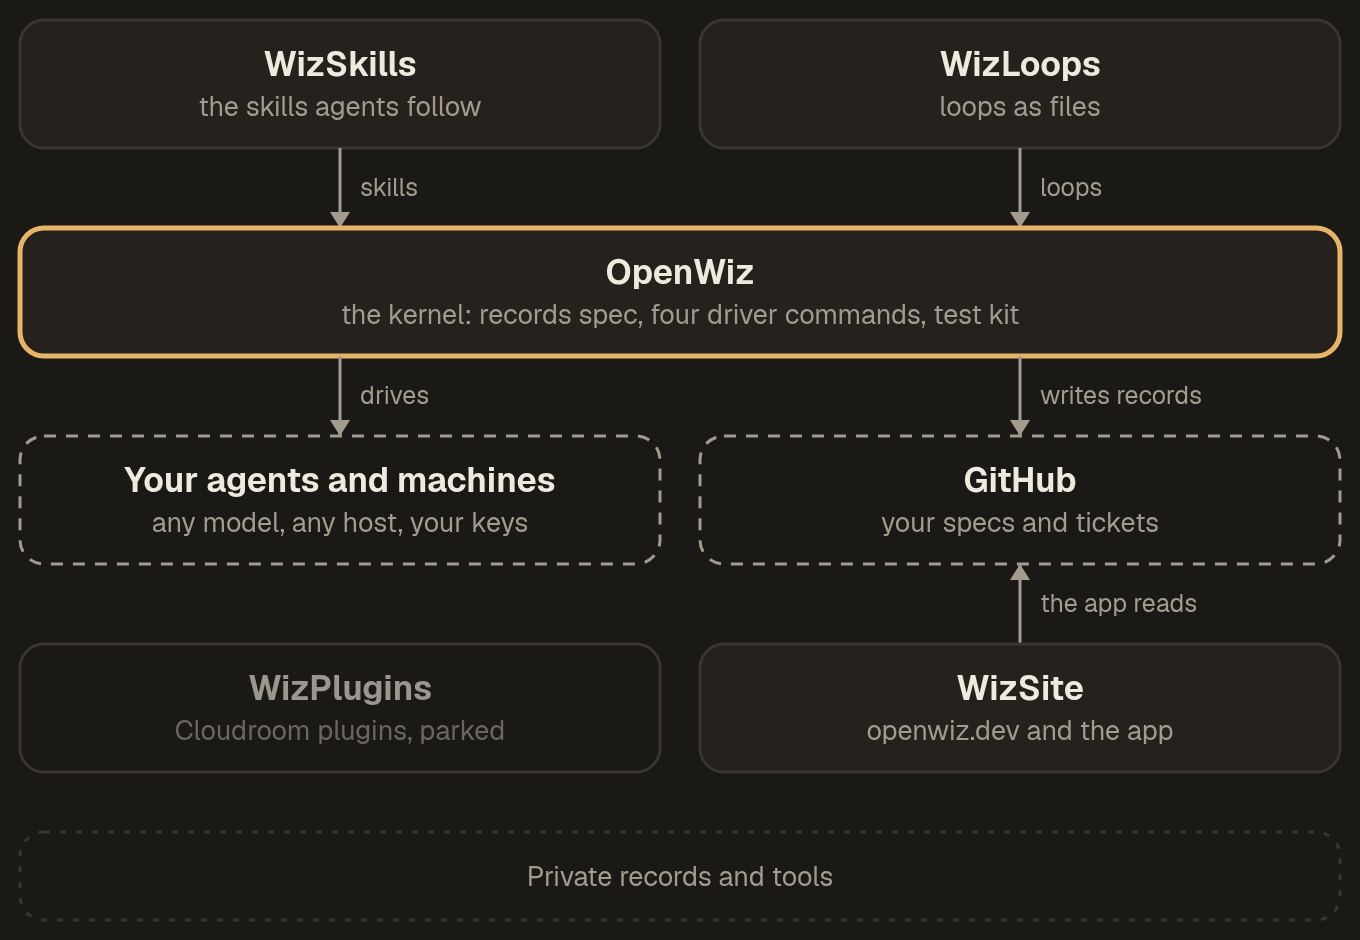
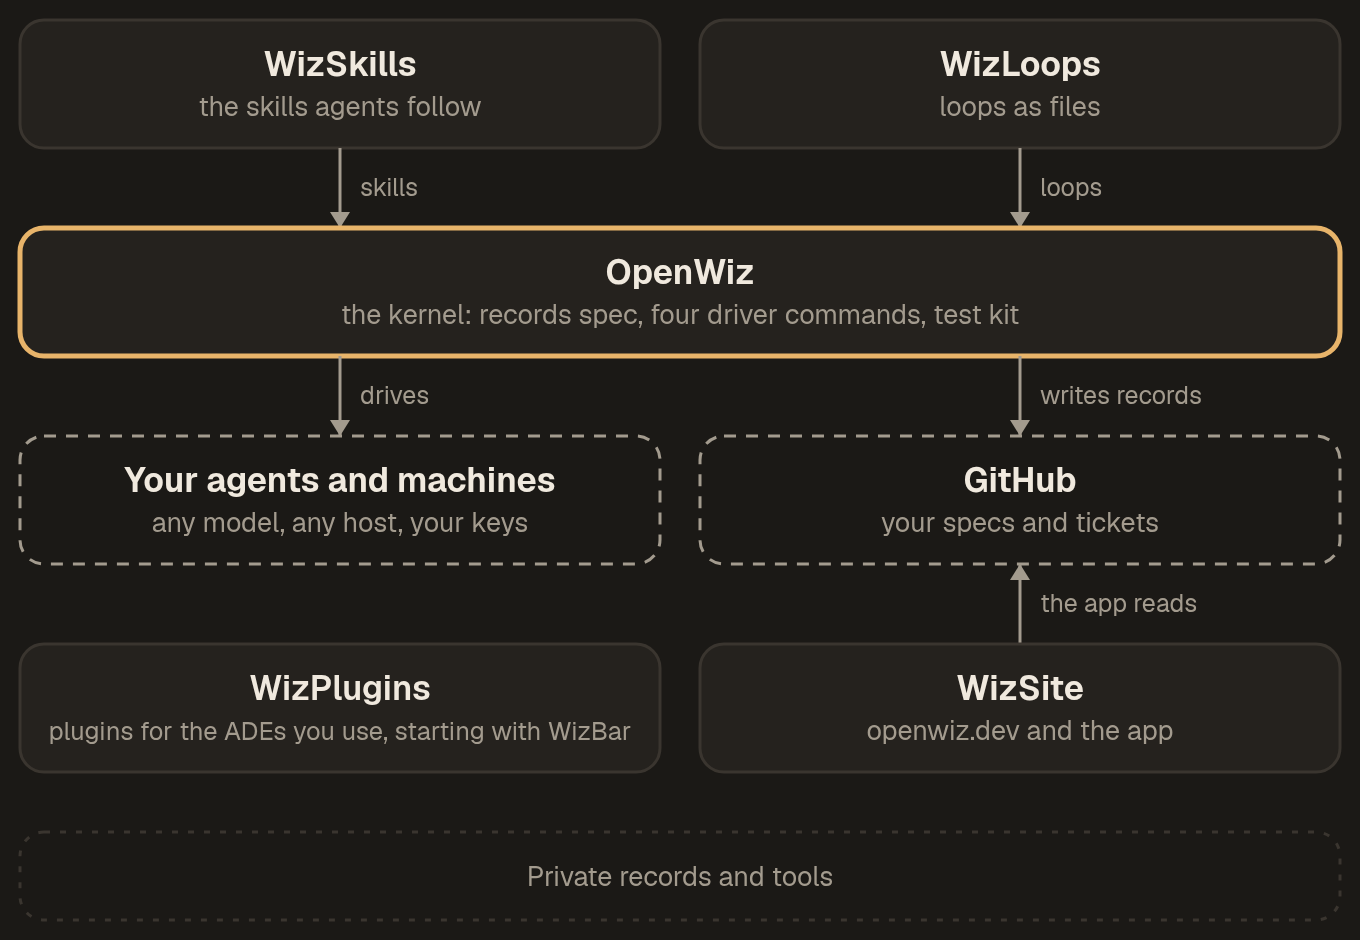
Profile: today's numbers and status (#7)
* Profile: today's numbers and status

* Profile map: update WizPlugins box to live; catch network errors in stats refresh

Changed region(s): [[0.0309, 0.7096, 0.4632, 0.8021]]

diff --git a/scripts/refresh_profile_stats.py b/scripts/refresh_profile_stats.py
@@ -1,0 +1,201 @@
+#!/usr/bin/env python3
+"""Refresh live stat spans in profile/README.md using the GitHub GraphQL API.
+
+Standard library only. Requires ORG_STATS_TOKEN with read access to both
+org:openwizdev and repo:jparker2006/ClosedWiz. If the token is missing or
+cannot read the private repository, leaves profile/README.md untouched and
+exits 0.
+"""
+
+from __future__ import annotations
+
+import datetime
+import http.client
+import json
+import os
+import pathlib
+import re
+import sys
+import urllib.error
+import urllib.request
+
+GRAPHQL_URL = "https://api.github.com/graphql"
+SINCE_DATE = datetime.date(2026, 10, 22)
+ORG_SCOPE = "org:openwizdev"
+PRIVATE_OWNER = "jparker2006"
+PRIVATE_REPO = "ClosedWiz"
+PRIVATE_SCOPE = f"repo:{PRIVATE_OWNER}/{PRIVATE_REPO}"
+README_PATH = pathlib.Path(__file__).resolve().parent.parent / "profile" / "README.md"
+DAYS_PER_BATCH = 25
+
+
+def graphql_query(token: str, query: str) -> dict:
+    payload = json.dumps({"query": query}).encode("utf-8")
+    req = urllib.request.Request(
+        GRAPHQL_URL,
+        data=payload,
+        headers={
+            "Authorization": f"Bearer {token}",
+            "Content-Type": "application/json",
+            "Accept": "application/json",
+            "User-Agent": "openwizdev-profile-stats",
+        },
+        method="POST",
+    )
+    with urllib.request.urlopen(req, timeout=30) as resp:
+        body = json.loads(resp.read().decode("utf-8"))
+    if body.get("errors"):
+        raise RuntimeError(f"GraphQL errors: {body['errors']}")
+    return body["data"]
+
+
+def read_current_int(text: str, key: str) -> int:
+    pattern = re.compile(
+        rf"<!--\s*stats:{re.escape(key)}\s*-->(.*?)<!--\s*/stats:{re.escape(key)}\s*-->",
+        re.DOTALL,
+    )
+    match = pattern.search(text)
+    if not match:
+        raise ValueError(f"Missing marker for stats:{key}")
+    raw = match.group(1).strip().replace(",", "")
+    return int(raw)
+
+
+def replace_stat(text: str, key: str, value: int) -> str:
+    pattern = re.compile(
+        rf"(<!--\s*stats:{re.escape(key)}\s*-->)(.*?)(<!--\s*/stats:{re.escape(key)}\s*-->)",
+        re.DOTALL,
+    )
+    formatted = f"{value:,}"
+    updated, count = pattern.subn(rf"\g<1>{formatted}\g<3>", text, count=1)
+    if count != 1:
+        raise ValueError(f"Failed to replace marker for stats:{key}")
+    return updated
+
+
+def fetch_totals_and_market(token: str) -> tuple[int, int, int] | None:
+    since = SINCE_DATE.isoformat()
+    query = f"""
+    query {{
+      privateRepo: repository(owner: "{PRIVATE_OWNER}", name: "{PRIVATE_REPO}") {{
+        nameWithOwner
+      }}
+      orgTotal: search(query: "{ORG_SCOPE} is:pr is:merged merged:>={since}", type: ISSUE) {{
+        issueCount
+      }}
+      privTotal: search(query: "{PRIVATE_SCOPE} is:pr is:merged merged:>={since}", type: ISSUE) {{
+        issueCount
+      }}
+      market: repository(owner: "openwizdev", name: "WizMarket") {{
+        object(expression: "main:listings") {{
+          ... on Tree {{
+            entries {{
+              name
+            }}
+          }}
+        }}
+      }}
+    }}
+    """
+    data = graphql_query(token, query)
+    if not data.get("privateRepo"):
+        print("Token cannot see the private repository; keeping existing numbers.")
+        return None
+
+    org_total = int(data["orgTotal"]["issueCount"])
+    priv_total = int(data["privTotal"]["issueCount"])
+    if org_total <= 0 or priv_total <= 0:
+        print(
+            f"Unexpected non-positive PR count (org={org_total}, priv={priv_total}); "
+            "keeping existing numbers."
+        )
+        return None
+
+    entries = (
+        (data.get("market") or {}).get("object") or {}
+    ).get("entries") or []
+    market_listings = sum(1 for e in entries if str(e.get("name", "")).endswith(".json"))
+    return org_total + priv_total, priv_total, market_listings
+
+
+def fetch_record_day(token: str) -> int:
+    today = datetime.datetime.now(datetime.timezone.utc).date()
+    days: list[str] = []
+    cur = SINCE_DATE
+    while cur <= today:
+        days.append(cur.isoformat())
+        cur += datetime.timedelta(days=1)
+
+    best = 0
+    for start in range(0, len(days), DAYS_PER_BATCH):
+        chunk = days[start : start + DAYS_PER_BATCH]
+        fields: list[str] = []
+        for idx, day in enumerate(chunk):
+            org_q = f"{ORG_SCOPE} is:pr is:merged merged:{day}..{day}"
+            priv_q = f"{PRIVATE_SCOPE} is:pr is:merged merged:{day}..{day}"
+            fields.append(f'o{idx}: search(query: "{org_q}", type: ISSUE) {{ issueCount }}')
+            fields.append(f'p{idx}: search(query: "{priv_q}", type: ISSUE) {{ issueCount }}')
+        data = graphql_query(token, "query {\n" + "\n".join(fields) + "\n}")
+        for idx in range(len(chunk)):
+            day_total = int(data[f"o{idx}"]["issueCount"]) + int(data[f"p{idx}"]["issueCount"])
+            if day_total > best:
+                best = day_total
+    return best
+
+
+def main() -> int:
+    token = os.environ.get("ORG_STATS_TOKEN", "").strip()
+    if not token:
+        print("ORG_STATS_TOKEN is not set; keeping existing numbers.")
+        return 0
+
+    original = README_PATH.read_text(encoding="utf-8")
+    old_merged = read_current_int(original, "prs_merged")
+    old_record = read_current_int(original, "prs_record_day")
+    old_market = read_current_int(original, "market_listings")
+
+    try:
+        result = fetch_totals_and_market(token)
+        if result is None:
+            return 0
+        total_merged, _priv_total, market_listings = result
+        record_day = fetch_record_day(token)
+    except (
+        urllib.error.URLError,
+        http.client.HTTPException,
+        OSError,
+        RuntimeError,
+        KeyError,
+        ValueError,
+    ) as exc:
+        print(f"Skipping update due to API error: {exc}", file=sys.stderr)
+        return 0
+
+    if total_merged < old_merged:
+        print(
+            f"Computed total ({total_merged}) is smaller than existing ({old_merged}); "
+            "keeping existing numbers."
+        )
+        return 0
+
+    new_merged = max(total_merged, old_merged)
+    new_record = max(record_day, old_record)
+    new_market = market_listings if market_listings > 0 else old_market
+
+    updated = replace_stat(original, "prs_merged", new_merged)
+    updated = replace_stat(updated, "prs_record_day", new_record)
+    updated = replace_stat(updated, "market_listings", new_market)
+
+    if updated != original:
+        README_PATH.write_text(updated, encoding="utf-8")
+        print(
+            f"Updated profile/README.md: prs_merged={new_merged}, "
+            f"prs_record_day={new_record}, market_listings={new_market}"
+        )
+    else:
+        print("Numbers unchanged.")
+    return 0
+
+
+if __name__ == "__main__":
+    raise SystemExit(main())

diff --git a/profile/README.md b/profile/README.md
@@ -7,17 +7,23 @@
 
 OpenWiz is a free, open source kernel for agent factories: it runs fleets of AI coding agents, such as Claude Code and Codex, on your own computers or cloud machines, with the plan, tickets and reviews kept as records on GitHub.
 
+Built itself in public: <!-- stats:prs_merged -->2,442<!-- /stats:prs_merged --> PRs merged by agents since Oct 22, up to <!-- stats:prs_record_day -->313<!-- /stats:prs_record_day --> in one day, with 100+ agents running at once.
+
+[Second place, Boat Hackathon 2026](https://boathackathon.com).
+
 - **You make the decisions.** Answer a few questions about what you want built.
 - **The agents run the factory.** They write the spec and the tickets, build, review and merge.
 - **You watch it ship.**
 
-The kernel is small: records on GitHub, four driver commands (`version`, `start`, `wake`, `stop`) and a test kit. Your agents run on your computer or a VPS, on Cloudroom, or on boat.dev. OpenWiz never touches a login, and there is no server of ours.
+The kernel is small: records on GitHub, four driver commands (`version`, `start`, `wake`, `stop`) and a test kit. Your agents run on your computer or a VPS, on Cloudroom, or on boat.dev. **OpenWiz never touches a login, and there is no server of ours.**
 
-It builds itself, in public. **Status:** [OpenWiz 0.01](https://github.com/openwizdev/OpenWiz/releases/tag/v0.1.0) (0.1.0) is out for macOS and Linux x86_64.
+**Status:** [OpenWiz 0.01](https://github.com/openwizdev/OpenWiz/releases/tag/v0.1.0) (0.1.0) is out for macOS and Linux x86_64.
+
+**Live now:** [the app with its Canvas](https://openwiz.dev/app) and [WizMarket](https://openwiz.dev/market) (<!-- stats:market_listings -->54<!-- /stats:market_listings --> live listings).
 
 <picture>
   <source media="(prefers-color-scheme: dark)" srcset="https://raw.githubusercontent.com/openwizdev/.github/main/profile/art/map-dark.png">
-  <img alt="How the repos fit: WizSkills and WizLoops feed OpenWiz, the kernel. OpenWiz drives your agents and machines and writes records to GitHub. WizSite's app reads GitHub. WizPlugins is parked. Private records and tools sit apart." src="https://raw.githubusercontent.com/openwizdev/.github/main/profile/art/map-light.png" width="680">
+  <img alt="How the repos fit: WizSkills and WizLoops feed OpenWiz, the kernel. OpenWiz drives your agents and machines and writes records to GitHub. WizSite's app reads GitHub. WizPlugins holds plugins for the ADEs you use, starting with WizBar. Private records and tools sit apart." src="https://raw.githubusercontent.com/openwizdev/.github/main/profile/art/map-light.png" width="680">
 </picture>
 
 | Repo | What it is | Licence |
@@ -27,6 +33,6 @@ It builds itself, in public. **Status:** [OpenWiz 0.01](https://github.com/openw
 | [WizLoops](https://github.com/openwizdev/WizLoops) | Loops as files: what wakes the factory, and when | Apache-2.0 |
 | [WizSite](https://github.com/openwizdev/WizSite) | [openwiz.dev](https://openwiz.dev) and the app that shows your factory | Apache-2.0 |
 | [WizMarket](https://github.com/openwizdev/WizMarket) | The OpenWiz marketplace registry: one small file per listing, added by pull request | Apache-2.0 |
-| [WizPlugins](https://github.com/openwizdev/WizPlugins) | Cloudroom plugins: the WizBar sidebar (optional, outside 0.1.0) | MIT |
+| [WizPlugins](https://github.com/openwizdev/WizPlugins) | Plugins for the ADEs you use, starting with WizBar | MIT |
 
-[openwiz.dev](https://openwiz.dev) · [What is OpenWiz?](https://openwiz.dev/what-is-openwiz/) · [the app](https://openwiz.dev/app/) · [Changelog](https://openwiz.dev/changelog/) · [X @openwiz](https://x.com/openwiz)
+[openwiz.dev](https://openwiz.dev) · [What is OpenWiz?](https://openwiz.dev/what-is-openwiz/) · [the app](https://openwiz.dev/app) · [WizMarket](https://openwiz.dev/market) · [Changelog](https://openwiz.dev/changelog/) · [X @openwiz](https://x.com/openwiz)
